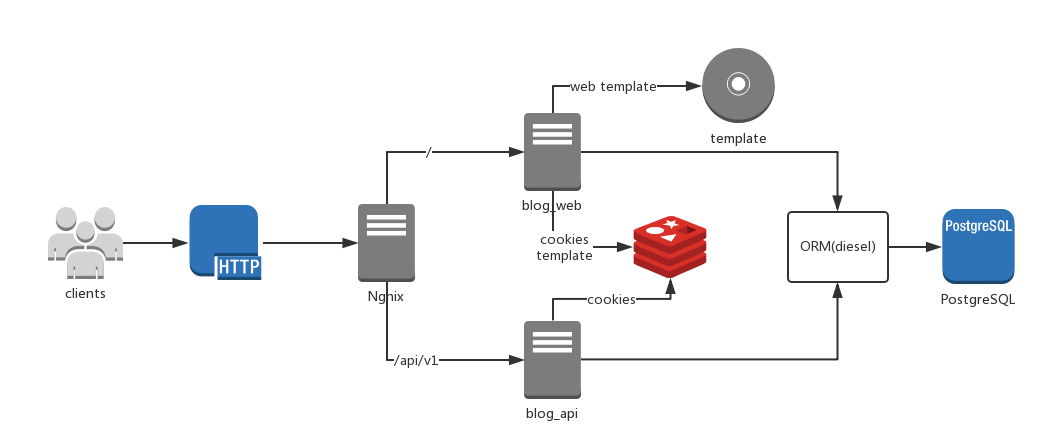
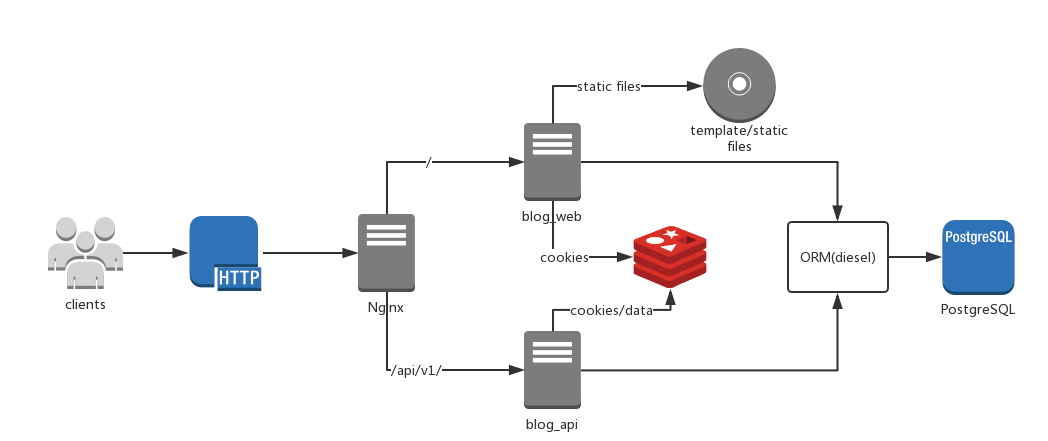
1. Change redis pool initialization method 2. Modify access ip storage, add timestamp

diff --git a/static/js/admin/ip_list.js b/static/js/admin/ip_list.js
@@ -8,10 +8,19 @@ function get_ip() {
         if (result.data.length < 10) {
             $("#next").attr({ "disabled": "disabled" });
         }
-        for (var i in result.data) {
-            $.getJSON("//www.freegeoip.net/json/" + result.data[i], function (res) {
-                var html = template("tpl-ip", res);
-                $("tbody").append(html);
+
+        for(var i = 0; i < result.data.length; i++){
+            var data = JSON.parse(result.data[i]);
+            data.timestamp = moment.utc(data.timestamp).local().format();
+            var html = template("tpl-ip", data);
+            $("tbody").append(html);
+            result.data[i] = data;
+        }
+
+        for (var i = 0; i < result.data.length; i++) {
+            $.getJSON("//www.freegeoip.net/json/" + result.data[i].ip, function (res) {
+                $(".region[data-ip='" + res.ip+ "']").text(res.region_name);
+                $(".country[data-ip='" + res.ip+ "']").text(res.country_name);
             })
         }
     })

diff --git a/views/admin/ip.html b/views/admin/ip.html
@@ -20,6 +20,7 @@ Ip
                 <th>IP</th>
                 <th>地区</th>
                 <th>国家</th>
+                <th>时间</th>
             </tr>
             </thead>
             <tbody>
@@ -52,8 +53,9 @@ Ip
     {% raw %}
     <tr>
         <td><p>{{ ip }}</p></td>
-        <td>{{ region_name }}</td>
-        <td>{{ country_name }}</td>
+        <td class="region" data-ip={{ ip }}></td>
+        <td class="country" data-ip={{ ip }}></td>
+        <td>{{ timestamp }}</td>
     </tr>
     {% endraw %}
 </script>

diff --git a/static/css/index.css b/static/css/index.css
@@ -30,12 +30,12 @@
     margin-top: 0;
 }
 
-div.col-md-8 a {
+div.col-md-8 a, div.list a {
     text-decoration: none;
     color: black;
 }
 
-div.col-md-8 a:hover, div.col-md-10 a:hover {
+div.col-md-8 a:hover, div.list a:hover {
     color: #337ab7;
     transition: color 0.25s ease-in-out;
 }

diff --git a/views/visitor/list.html b/views/visitor/list.html
@@ -13,7 +13,7 @@ Blog List
 {% endblock header %}
 
 {% block body %}
-<div class="col-lg-10 col-lg-offset-1 col-md-10 col-md-offset-1" style="margin-top: 100px">
+<div class="col-lg-10 col-lg-offset-1 col-md-10 col-md-offset-1 list" style="margin-top: 100px">
 </div>
 {% endblock body%}
 

diff --git a/static/js/admin/my_echart.js b/static/js/admin/my_echart.js
@@ -2,7 +2,6 @@
 
 $(function () {
     $.getJSON("/api/v1/tag/view?limit=50&&offset=0", function (result) {
-        console.log(result);
         var data = [];
         var data_tag = [];
         for (var i in result.data) {

diff --git a/src/util/redis_pool.rs b/src/util/redis_pool.rs
@@ -13,11 +13,23 @@ use std::io::Read;
 
 pub struct RedisPool {
     pool: Pool<RedisConnectionManager>,
-    script: redis::Script
+    script: Option<redis::Script>
 }
 
 impl RedisPool {
-    pub fn new<T>(address: T, path: &str) -> Self
+    pub fn new<T>(address: T) -> Self
+        where T: redis::IntoConnectionInfo
+    {
+        let config = Default::default();
+        let manager = RedisConnectionManager::new(address).unwrap();
+        let pool = r2d2::Pool::new(config, manager).unwrap();
+        RedisPool {
+        pool,
+        script: None
+        }
+    }
+
+    pub fn new_with_script<T>(address: T, path: &str) -> Self
         where T: redis::IntoConnectionInfo
     {
         let config = Default::default();
@@ -28,7 +40,7 @@ impl RedisPool {
         file.read_to_string(&mut lua).unwrap();
         RedisPool {
             pool,
-            script: redis::Script::new(&lua)
+            script: Some(redis::Script::new(&lua))
         }
     }
 
@@ -110,15 +122,20 @@ impl RedisPool {
     }
 
     pub fn lua_push(&self, redis_key: &str, ip: &str) -> bool {
-        self.script.arg(redis_key).arg(ip).invoke::<bool>(&*self.pool.get().unwrap()).unwrap()
+        self.script.as_ref().unwrap().arg(redis_key).arg(ip)
+            .invoke::<bool>(&*self.pool.get().unwrap()).unwrap()
     }
 }
 
-pub fn create_redis_pool() -> RedisPool {
+pub fn create_redis_pool(path: Option<&str>) -> RedisPool {
     dotenv::dotenv().ok();
 
     let database_url = env::var("REDIS_URL").expect("DATABASE_URL must be set");
-    RedisPool::new(database_url.as_str(), "lua/visitor_log.lua")
+    match path {
+        Some(path) => RedisPool::new_with_script(database_url.as_str(), path),
+        None => RedisPool::new(database_url.as_str())
+    }
+
 }
 
 pub struct Redis;

diff --git a/src/util/mod.rs b/src/util/mod.rs
@@ -10,6 +10,7 @@ use std::fmt::Write;
 use comrak::{ markdown_to_html, ComrakOptions };
 use std::sync::Arc;
 use sapper::{ Key, Request };
+use chrono::Utc;
 
 /// Get random value
 #[inline]
@@ -81,7 +82,8 @@ pub fn user_verification_cookie(cookie: Option<&String>, redis_pool: &Arc<RedisP
 #[inline]
 pub fn visitor_log(req: &Request, redis_pool: &Arc<RedisPool>) {
     let ip = String::from_utf8(req.headers().get_raw("X-Real-IP").unwrap()[0].as_slice().to_vec()).unwrap();
-    redis_pool.lua_push("visitor_log", &ip);
+    let timestamp = Utc::now();
+    redis_pool.lua_push("visitor_log", &json!({"ip": &ip, "timestamp": &timestamp}).to_string());
 }
 
 pub struct UserSession;

diff --git a/src/bin/blog_web.rs b/src/bin/blog_web.rs
@@ -21,7 +21,7 @@ impl SapperAppShell for WebApp {
 }
 
 fn main() {
-    let redis_pool = Arc::new(create_redis_pool());
+    let redis_pool = Arc::new(create_redis_pool(Some("lua/visitor_log.lua")));
     let pg_pool = create_pg_pool();
     let mut app = SapperApp::new();
     app.address("127.0.0.1")

diff --git a/src/bin/blog_api.rs b/src/bin/blog_api.rs
@@ -21,7 +21,7 @@ impl SapperAppShell for ApiApp {
 }
 
 fn main() {
-    let redis_pool = Arc::new(create_redis_pool());
+    let redis_pool = Arc::new(create_redis_pool(None));
     let pg_pool = create_pg_pool();
     let mut app = SapperApp::new();
     app.address("127.0.0.1")

diff --git a/README.md b/README.md
@@ -40,6 +40,29 @@ $ diesel migration run
 ### [Nginx](http://nginx.org/en/download.html)
 nginx has been used in the development of the time
 
+##### config:
+```
+server {
+        listen       8880;
+        server_name  127.0.0.1;
+
+        location / {
+            proxy_pass http://127.0.0.1:8080;
+            proxy_redirect off;
+            proxy_set_header Host $host;
+            proxy_set_header X-Real-IP $remote_addr;
+            proxy_set_header X-Forwarded-For $proxy_add_x_forwarded_for;
+        }
+
+        location /api/v1/ {
+            proxy_pass http://127.0.0.1:8888/;
+            proxy_redirect off;
+            proxy_set_header Host $host;
+            proxy_set_header X-Real-IP $remote_addr;
+            proxy_set_header X-Forwarded-For $proxy_add_x_forwarded_for;
+        }
+```
+
 ### blog
 ```
 $ cargo run --bin blog_web // listen on 127.0.0.1:8080
